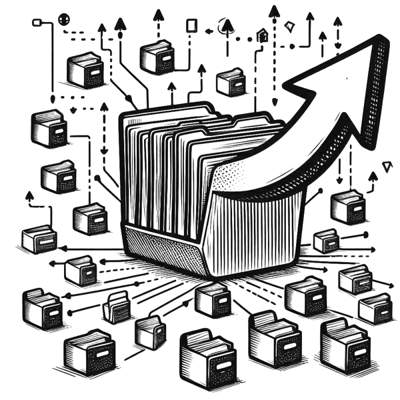
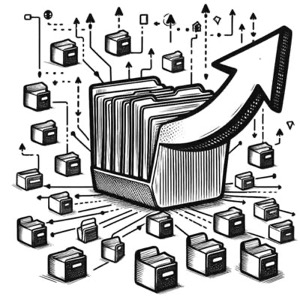
Added smaller images

diff --git a/docs/_posts/2024-09-10-apache-iceberg-hands-on.md b/docs/_posts/2024-09-10-apache-iceberg-hands-on.md
@@ -160,7 +160,7 @@ Here is a comparison of some key metrics collected while using the three differe
 
 | Metric | Just write | +Compaction | +Compaction +Vacuum |
 | --- | ---- | ---- | ---- |
-| Number of snapshots () | ~320/day | 10 | 10 |
+| Number of snapshots | ~320/day | 10 | 10 |
 | Number of **metadata** files per day | 2,200  | 10,500 | 67 |
 | Size of **metadata** files per day | 5,200 MB  | 7,900 MB | 100 MB |
 | Number of **data** files per day | ~300K  | ~800K | 50K |
